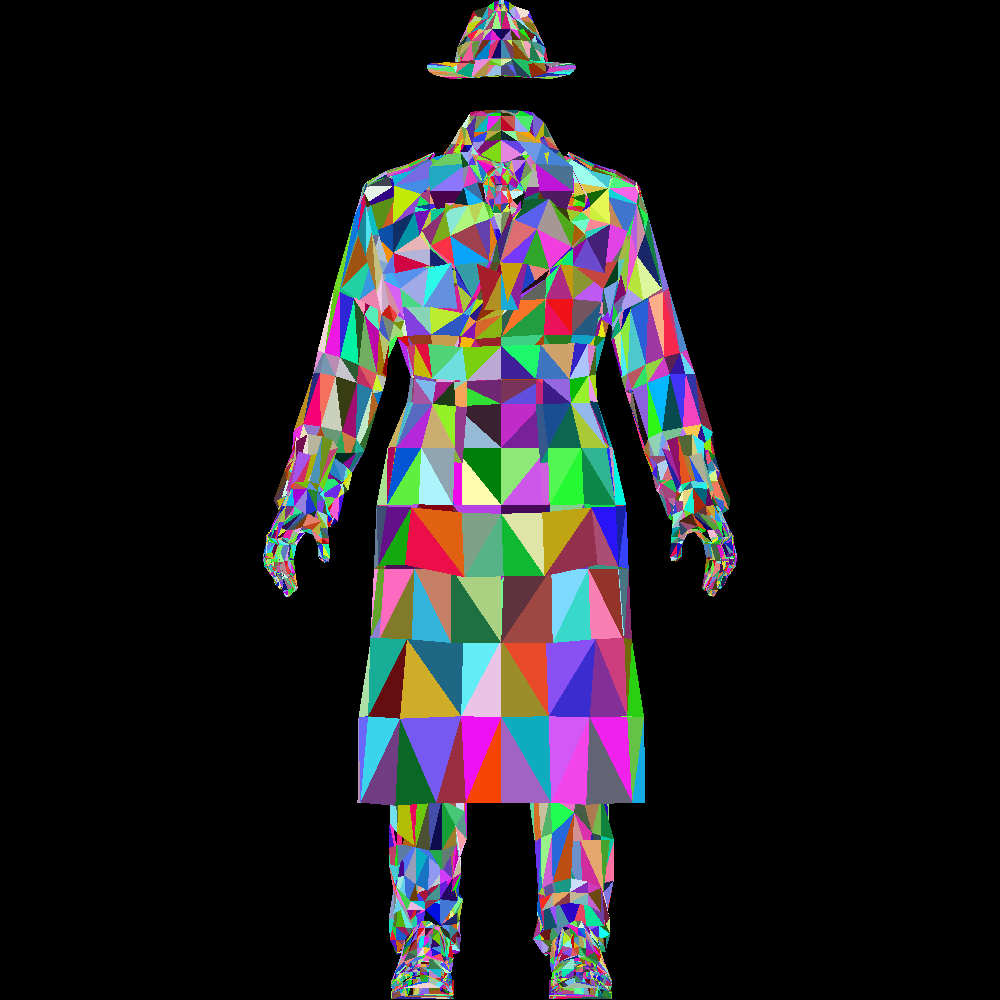
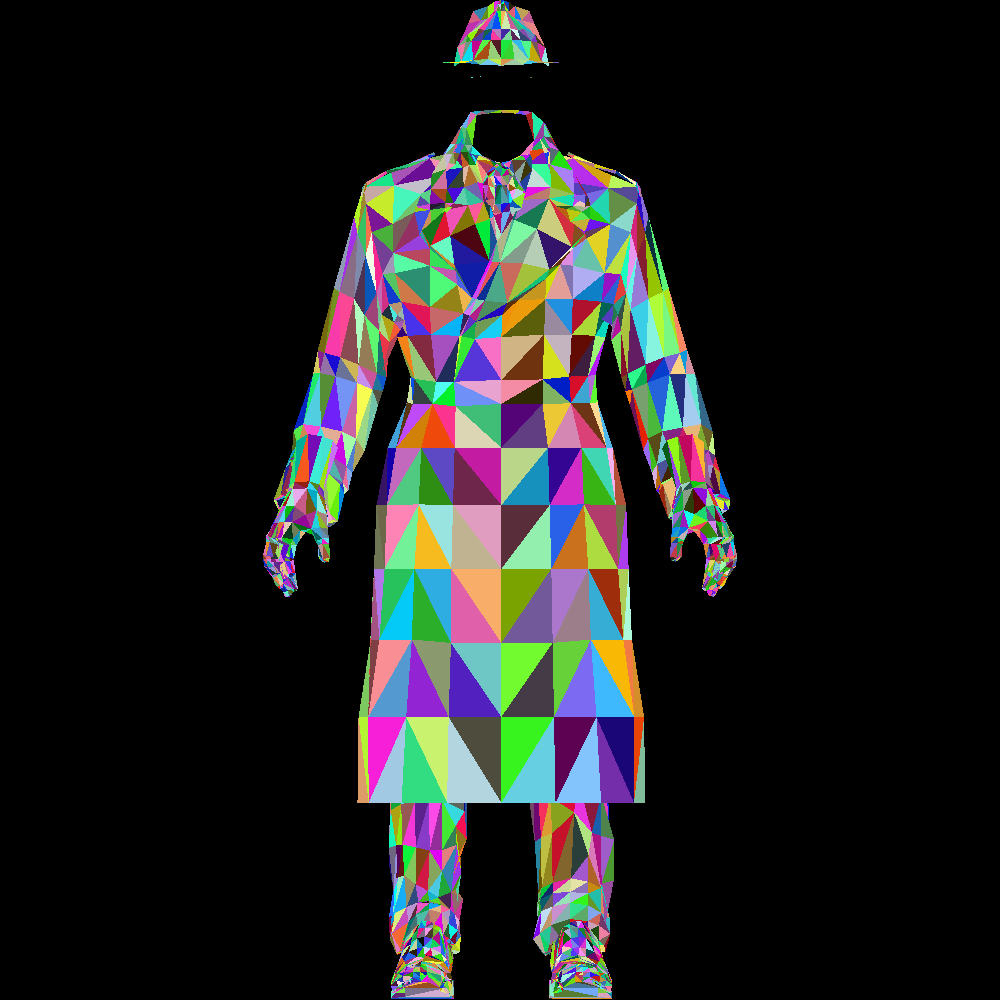
update

Changed region(s): [[0.248, 0.0, 0.744, 1.0]]

diff --git a/python 3D image/triangle.py b/python 3D image/triangle.py
@@ -81,10 +81,15 @@ class Triangle:
 
     def fill(self, canvas):
         # Use barycentric coordination
+
+        if self.total_area < 0:
+            return
+
         bounding_box = BoundingBox(self)
         # print(bounding_box, self.color)
         # print(self.p1, self.p2, self.p3)
         # print(self.signed_area(self.p1, self.p2, self.p3))
+
         for x in range(bounding_box.min_x, bounding_box.max_x + 1):
             for y in range(bounding_box.min_y, bounding_box.max_y + 1):
                 if self.inside_triangle(Point(x, y)):
